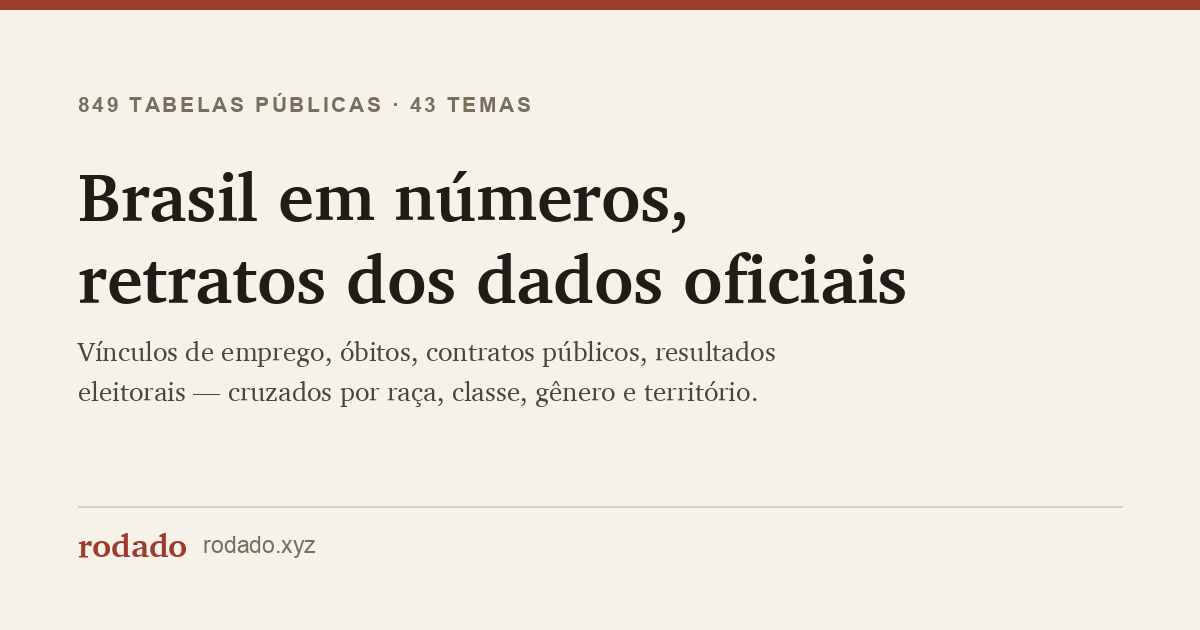
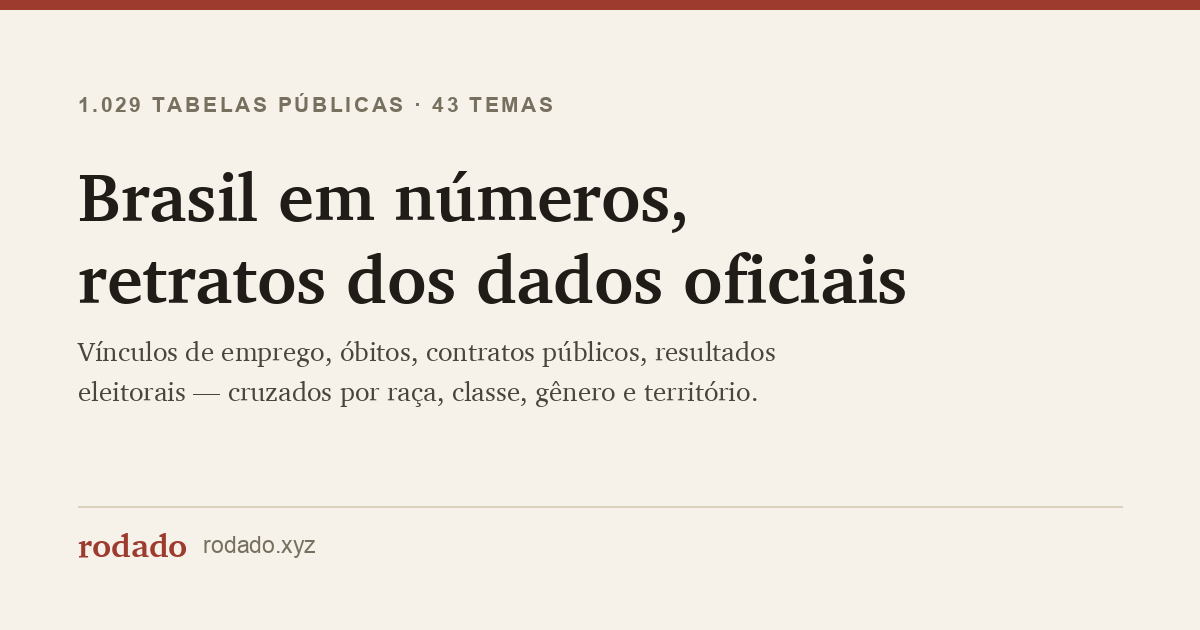
fix: atualiza contagem de tabelas e datasets no en.html, mcp e og

Changed region(s): [[0.0617, 0.1508, 0.4625, 0.181]]

diff --git a/pages/mcp.html b/pages/mcp.html
@@ -3,7 +3,7 @@
 <meta charset="utf-8">
 <meta name="viewport" content="width=device-width, initial-scale=1">
 <title>rodado — catálogo de dados públicos brasileiros (servidor MCP)</title>
-<meta name="description" content="1022 tabelas públicas brasileiras em 229 datasets — RAIS, SIM, TSE, CGU, IBGE, INEP e outras — organizadas em 43 domínios temáticos e expostas como ferramentas de um servidor MCP real.">
+<meta name="description" content="1.029 tabelas públicas brasileiras em 233 datasets — RAIS, SIM, TSE, CGU, IBGE, INEP e outras — organizadas em 43 domínios temáticos e expostas como ferramentas de um servidor MCP real.">
 <!-- seo:start (gerado por scripts/gera_seo.py — não editar à mão) -->
 <link rel="canonical" href="https://rodado.xyz/mcp.html">
 <link rel="alternate" hreflang="pt-br" href="https://rodado.xyz/mcp.html">
@@ -14,14 +14,14 @@
 <meta property="og:locale" content="pt_BR">
 <meta property="og:url" content="https://rodado.xyz/mcp.html">
 <meta property="og:title" content="rodado — catálogo de dados públicos brasileiros (servidor MCP)">
-<meta property="og:description" content="1022 tabelas públicas brasileiras em 229 datasets — RAIS, SIM, TSE, CGU, IBGE, INEP e outras — organizadas em 43 domínios temáticos e expostas como ferramentas de um servidor MCP real.">
+<meta property="og:description" content="1.029 tabelas públicas brasileiras em 233 datasets — RAIS, SIM, TSE, CGU, IBGE, INEP e outras — organizadas em 43 domínios temáticos e expostas como ferramentas de um servidor MCP real.">
 <meta property="og:image" content="https://rodado.xyz/assets/og.png">
 <meta property="og:image:width" content="1200">
 <meta property="og:image:height" content="630">
 <meta property="og:image:alt" content="rodado — catálogo de dados públicos brasileiros (servidor MCP)">
 <meta name="twitter:card" content="summary_large_image">
 <meta name="twitter:title" content="rodado — catálogo de dados públicos brasileiros (servidor MCP)">
-<meta name="twitter:description" content="1022 tabelas públicas brasileiras em 229 datasets — RAIS, SIM, TSE, CGU, IBGE, INEP e outras — organizadas em 43 domínios temáticos e expostas como ferramentas de um servidor MCP real.">
+<meta name="twitter:description" content="1.029 tabelas públicas brasileiras em 233 datasets — RAIS, SIM, TSE, CGU, IBGE, INEP e outras — organizadas em 43 domínios temáticos e expostas como ferramentas de um servidor MCP real.">
 <meta name="twitter:image" content="https://rodado.xyz/assets/og.png">
 <link rel="icon" href="assets/favicon.ico" sizes="any">
 <link rel="icon" type="image/png" sizes="32x32" href="assets/favicon-32.png">
@@ -77,7 +77,7 @@
         <span class="brand-tag">Catálogo de Dados · Brasil</span>
       </div>
       <h1 class="page-title">Catálogo de dados públicos brasileiros, exposto como servidor MCP</h1>
-      <p class="lead">Um índice temático sobre 1022 tabelas públicas brasileiras — RAIS, SIM, TSE, CGU, IBGE, INEP e outras — consultáveis diretamente com <strong>DuckDB</strong>. Cada card abaixo é um tema de pesquisa; cada linha dentro dele é uma tabela consultável.</p>
+      <p class="lead">Um índice temático sobre 1.029 tabelas públicas brasileiras — RAIS, SIM, TSE, CGU, IBGE, INEP e outras — consultáveis diretamente com <strong>DuckDB</strong>. Cada card abaixo é um tema de pesquisa; cada linha dentro dele é uma tabela consultável.</p>
       <p class="lead-note">O catálogo inclui um conjunto crescente de fontes coletadas independentemente — sanções internacionais (UE, ONU, OFAC, OpenSanctions), ICIJ Offshore Leaks, SICAF, SINAN Violência, Consumidor.gov.br, dívida ativa da PGFN e Tribunais de Contas estaduais — ver o catálogo completo dessas fontes.</p>
       <div class="header-bottom">
         <div class="stats">
@@ -86,8 +86,8 @@
             <div class="stat-label">temas</div>
           </div>
           <div>
-            <div class="stat-num">1022</div>
-            <div class="stat-label">tabelas em 229 datasets <span class="muted">· 100 destacadas abaixo</span></div>
+            <div class="stat-num">1.029</div>
+            <div class="stat-label">tabelas em 233 datasets <span class="muted">· 100 destacadas abaixo</span></div>
           </div>
           <div>
             <div class="stat-num">Restrito</div>
@@ -112,10 +112,10 @@
       <p class="tools-desc">Oito ferramentas MCP expõem o catálogo e o espelho DuckDB. Nomes de tabela do catálogo funcionam direto no SQL: quando não há view no banco, a consulta é reescrita automaticamente para os arquivos Parquet locais.</p>
       <div class="tools-grid">
         <ul class="tools-list">
-          <li><code>list_datasets()</code> — os 229 datasets com contagem de tabelas</li>
+          <li><code>list_datasets()</code> — os 233 datasets com contagem de tabelas</li>
           <li><code>list_tables(dataset)</code> — tabelas de um dataset, com sugestões de nome</li>
           <li><code>describe_table(tabela)</code> — colunas, tipos, descrições e caminho Parquet</li>
-          <li><code>search_tables(consulta)</code> — busca semântica em português sobre as 1022 tabelas</li>
+          <li><code>search_tables(consulta)</code> — busca semântica em português sobre as 1.029 tabelas</li>
           <li><code>get_join_keys(coluna?)</code> — chaves de junção documentadas entre datasets</li>
           <li><code>run_sql(sql)</code> — SQL somente-leitura (SELECT/WITH) no espelho DuckDB</li>
           <li><code>consultar_cnpj(cnpj)</code> — empresa, estabelecimentos e sócios pela base da Receita</li>

diff --git a/pages/mcp-en.html b/pages/mcp-en.html
@@ -3,7 +3,7 @@
 <meta charset="utf-8">
 <meta name="viewport" content="width=device-width, initial-scale=1">
 <title>rodado — MCP server for Brazilian public data</title>
-<meta name="description" content="1022 Brazilian public tables across 229 datasets (RAIS, SIM, TSE, CGU, IBGE, INEP...) organized into 43 thematic domains and exposed as tools on a real MCP server.">
+<meta name="description" content="1,029 Brazilian public tables across 233 datasets (RAIS, SIM, TSE, CGU, IBGE, INEP...) organized into 43 thematic domains and exposed as tools on a real MCP server.">
 <!-- seo:start (gerado por scripts/gera_seo.py — não editar à mão) -->
 <link rel="canonical" href="https://rodado.xyz/mcp-en.html">
 <link rel="alternate" hreflang="en" href="https://rodado.xyz/mcp-en.html">
@@ -14,14 +14,14 @@
 <meta property="og:locale" content="en_US">
 <meta property="og:url" content="https://rodado.xyz/mcp-en.html">
 <meta property="og:title" content="rodado — MCP server for Brazilian public data">
-<meta property="og:description" content="1022 Brazilian public tables across 229 datasets (RAIS, SIM, TSE, CGU, IBGE, INEP...) organized into 43 thematic domains and exposed as tools on a real MCP server.">
+<meta property="og:description" content="1,029 Brazilian public tables across 233 datasets (RAIS, SIM, TSE, CGU, IBGE, INEP...) organized into 43 thematic domains and exposed as tools on a real MCP server.">
 <meta property="og:image" content="https://rodado.xyz/assets/og-en.png">
 <meta property="og:image:width" content="1200">
 <meta property="og:image:height" content="630">
 <meta property="og:image:alt" content="rodado — MCP server for Brazilian public data">
 <meta name="twitter:card" content="summary_large_image">
 <meta name="twitter:title" content="rodado — MCP server for Brazilian public data">
-<meta name="twitter:description" content="1022 Brazilian public tables across 229 datasets (RAIS, SIM, TSE, CGU, IBGE, INEP...) organized into 43 thematic domains and exposed as tools on a real MCP server.">
+<meta name="twitter:description" content="1,029 Brazilian public tables across 233 datasets (RAIS, SIM, TSE, CGU, IBGE, INEP...) organized into 43 thematic domains and exposed as tools on a real MCP server.">
 <meta name="twitter:image" content="https://rodado.xyz/assets/og-en.png">
 <link rel="icon" href="assets/favicon.ico" sizes="any">
 <link rel="icon" type="image/png" sizes="32x32" href="assets/favicon-32.png">
@@ -77,7 +77,7 @@
         <span class="brand-tag">Data Catalog · Brazil</span>
       </div>
       <h1 class="page-title">Brazilian public-data catalog, served as an MCP server</h1>
-      <p class="lead">A thematic index over 1022 Brazilian public tables — RAIS, SIM, TSE, CGU, IBGE, INEP and more — queryable directly with <strong>DuckDB</strong>. Each card below is a research theme; each row inside it is a table you can query.</p>
+      <p class="lead">A thematic index over 1,029 Brazilian public tables — RAIS, SIM, TSE, CGU, IBGE, INEP and more — queryable directly with <strong>DuckDB</strong>. Each card below is a research theme; each row inside it is a table you can query.</p>
       <p class="lead-note">The catalog includes a growing set of independently-collected sources — international sanctions lists (EU, UN, OFAC, OpenSanctions), ICIJ Offshore Leaks, SICAF, SINAN Violência, Consumidor.gov.br, PGFN active debt and state Courts of Accounts — see the full catalog of these sources.</p>
       <div class="header-bottom">
         <div class="stats">
@@ -86,8 +86,8 @@
             <div class="stat-label">themes</div>
           </div>
           <div>
-            <div class="stat-num">1022</div>
-            <div class="stat-label">tables across 229 datasets <span class="muted">· 100 highlighted below</span></div>
+            <div class="stat-num">1,029</div>
+            <div class="stat-label">tables across 233 datasets <span class="muted">· 100 highlighted below</span></div>
           </div>
           <div>
             <div class="stat-num">Restricted</div>
@@ -112,10 +112,10 @@
       <p class="tools-desc">Eight MCP tools expose the catalog and the DuckDB mirror. Catalog table names work directly in SQL: when a table has no view in the database, the query is automatically rewritten against the local Parquet files.</p>
       <div class="tools-grid">
         <ul class="tools-list">
-          <li><code>list_datasets()</code> — all 229 datasets with table counts</li>
+          <li><code>list_datasets()</code> — all 233 datasets with table counts</li>
           <li><code>list_tables(dataset)</code> — a dataset's tables, with name suggestions</li>
           <li><code>describe_table(table)</code> — columns, types, descriptions and Parquet path</li>
-          <li><code>search_tables(query)</code> — semantic search over the 1022 tables</li>
+          <li><code>search_tables(query)</code> — semantic search over the 1,029 tables</li>
           <li><code>get_join_keys(column?)</code> — documented join keys across datasets</li>
           <li><code>run_sql(sql)</code> — read-only SQL (SELECT/WITH) on the DuckDB mirror</li>
           <li><code>consultar_cnpj(cnpj)</code> — company, branches and partners from the full registry</li>

diff --git a/pages/en.html b/pages/en.html
@@ -74,7 +74,7 @@
 
   <p class="eyebrow">English summary</p>
   <h1>Brazil in numbers, portraits from official data</h1>
-  <p class="dek">This project brings together 849 public tables from Brazilian government institutions — part of them mirrored from public data warehouses, the rest scraped independently to cover what those don't — and reads them through an investigative lens rather than a technical one.</p>
+  <p class="dek">This project brings together 1,029 public tables from Brazilian government institutions — part of them mirrored from public data warehouses, the rest scraped independently to cover what those don't — and reads them through an investigative lens rather than a technical one.</p>
 
   <p class="teaser-nota">The same data, seen on the map: eight cartographic explorations at the <a href="https://xn--2dk.xyz/dataviz/">DataViz</a>.</p>
   <div class="teaser">

diff --git a/scripts/gera_og_image.py b/scripts/gera_og_image.py
@@ -35,12 +35,12 @@ PAD = 78
 
 VARIANTS = {
     "og.png": {
-        "eyebrow": "849 TABELAS PÚBLICAS · 43 TEMAS",
+        "eyebrow": "1.029 TABELAS PÚBLICAS · 43 TEMAS",
         "head": ["Brasil em números,", "retratos dos dados oficiais"],
         "dek": "Vínculos de emprego, óbitos, contratos públicos, resultados\neleitorais — cruzados por raça, classe, gênero e território.",
     },
     "og-en.png": {
-        "eyebrow": "849 PUBLIC TABLES · 43 THEMES",
+        "eyebrow": "1,029 PUBLIC TABLES · 43 THEMES",
         "head": ["Brazil by the numbers,", "portraits from official data"],
         "dek": "Employment records, deaths, public contracts, election results —\ncross-referenced by race, class, gender and territory.",
     },

diff --git a/docs/MCP.md b/docs/MCP.md
@@ -6,7 +6,7 @@ Desktop/Claude Code) — não é uma API REST, é uma lista de funções que um
 modelo de linguagem chama em sequência, decidindo a cada passo qual chamar a
 seguir a partir do resultado da anterior.
 
-Números de hoje: 229 datasets, 1022 tabelas (índice doc2query ainda cobre as 832 de 2026-08-23), índice doc2query com 6.464
+Números de hoje: 233 datasets, 1.029 tabelas (índice doc2query ainda cobre as 832 de 2026-08-23), índice doc2query com 6.464
 perguntas sintéticas (uma por tabela em média ~8), 60 conceitos de join
 documentados, 20 false friends, 7 métricas nomeadas, 3 hierarquias de rollup,
 18 ferramentas ao todo. Nunca abre conexão DuckDB local — toda query roda no
